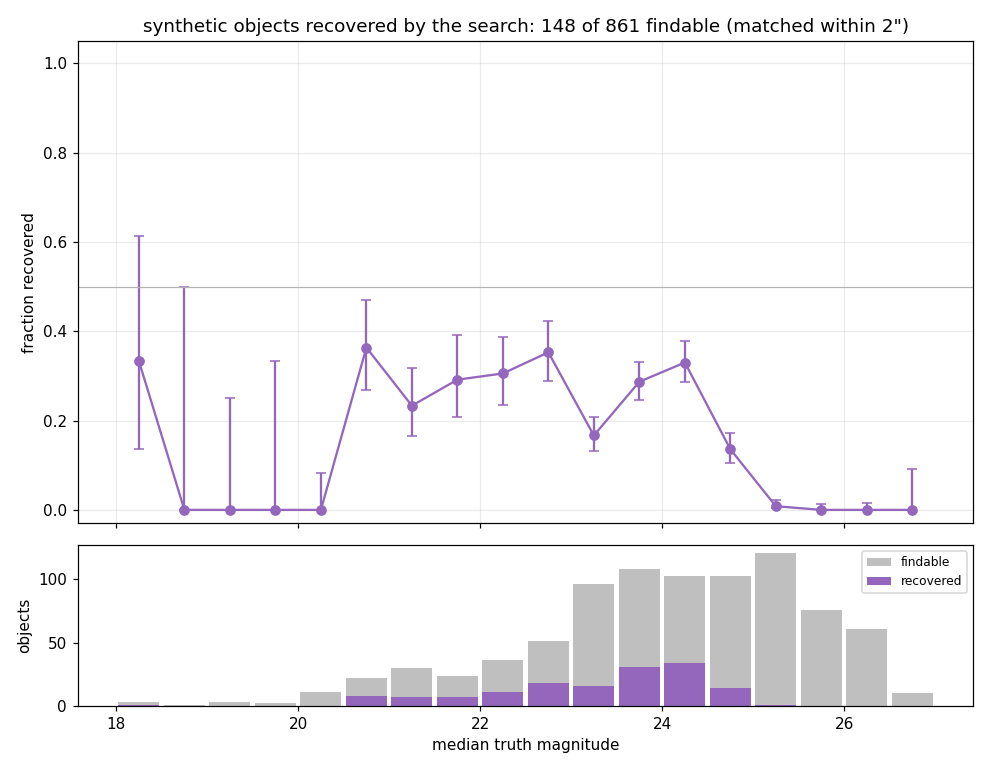
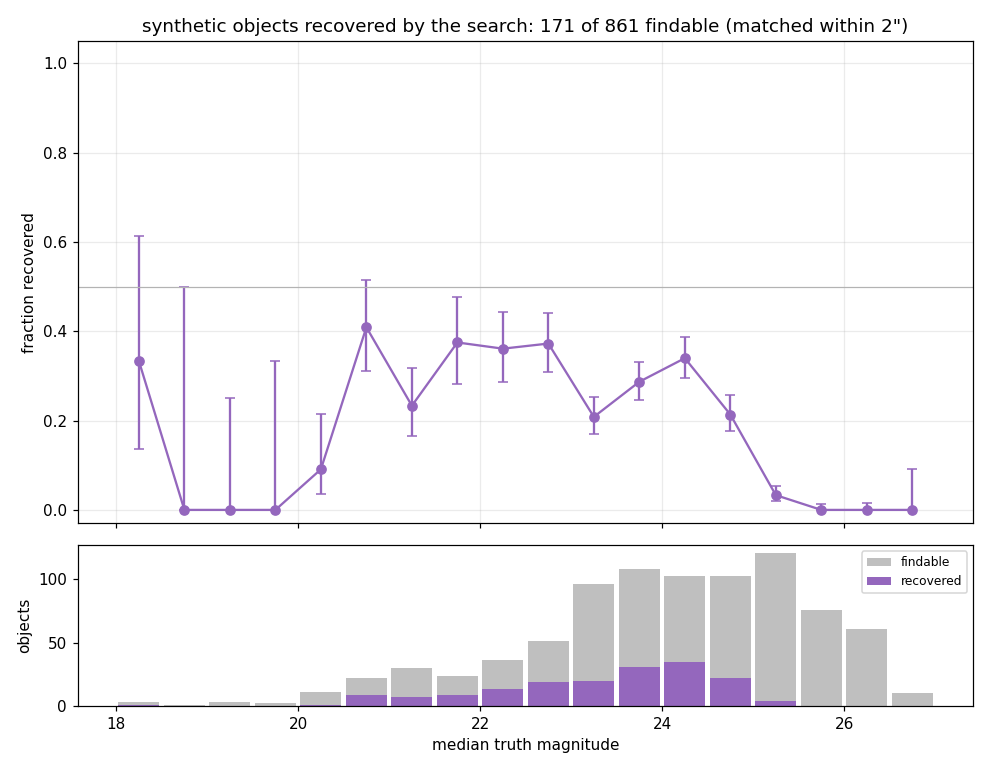
Raise --num-results to 200 for the deeper search and re-run the night (#43)
search_night_array.sh gains $NUM_RESULTS and $FORCE (re-search run_ids that
already have a `search` row, for a parameter change on an already-searched
night); list_night_run_ids.py gains --include-searched to support it.

Re-ran night 20190402's 180 VR searches against a fresh deep_asteroids_snr_3
database with --num-results 200 (same threshold=3, dx=10, CR/INTRP excluded).
Regenerated the night_20190402_snr_3 plots and updated README.md with the new
funnel/completeness numbers.

diff --git a/examples/list_night_run_ids.py b/examples/list_night_run_ids.py
@@ -24,11 +24,11 @@ from deep_asteroids.database.search import band_clause, parse_band
 MIN_EXPOSURES = 2  # search.detect.MIN_EXPOSURES
 
 
-def run_ids_to_search(session, night, band=Ellipsis, min_coverage=0.0):
+def run_ids_to_search(session, night, band=Ellipsis, min_coverage=0.0, include_searched=False):
     rows = session.execute(
         select(SD.id, SD.run_id, SD.n_exposures).where(SD.night == night, band_clause(band))
     ).all()
-    already_searched = set(session.scalars(
+    already_searched = set() if include_searched else set(session.scalars(
         select(Search.run_id).where(Search.run_id.in_([r.run_id for r in rows]))))
 
     run_ids = []
@@ -54,7 +54,12 @@ if __name__ == "__main__":
                         help="a band, or '' / none for the undefined-band (all-band) rows (default VR)")
     parser.add_argument("--min-coverage", type=float, default=0.0,
                         help="fraction of a search's exposures that must have an image (default 0)")
+    parser.add_argument("--include-searched", action="store_true",
+                        help="also list run_ids that already have a `search` row -- for re-running a "
+                             "night with different search parameters (e.g. --force --num-results) "
+                             "rather than resuming a partial array")
     args = parser.parse_args()
     with Session(get_db()) as session:
-        for run_id in run_ids_to_search(session, args.night, parse_band(args.band), args.min_coverage):
+        for run_id in run_ids_to_search(session, args.night, parse_band(args.band), args.min_coverage,
+                                         args.include_searched):
             print(run_id)

diff --git a/README.md b/README.md
@@ -563,12 +563,11 @@ needs salad's Postgres for those).
 `docs/examples/viz/night_20190402_snr_3/`.** Run as a Slurm job array (`examples/search_night_array.sh`, one
 task per run_id -- 180 of the night's 186 VR searches had enough image coverage, done in ~25 minutes instead of
 the hours a sequential run would take) into its own Postgres database, `deep_asteroids_snr_3`, so it doesn't
-overwrite the default-threshold baseline. Every search hit `--num-results`'s default cap of 50 (9,000 = 180 x 50),
-so the 50-per-search ranking, not detection, is now the limit: completeness tops out around 35% (versus ~90-100%
-brighter than magnitude 24 at the default threshold=5), because a flood of SNR 3-5 noise detections crowds real
-objects out of each search's top 50. `sigma_v` still cleanly separates real matches from noise at this threshold
-(see `sigma_v_by_group.png`) -- the next step for a usefully deeper search is raising `--num-results` to match,
-not just lowering `--threshold` alone.
+overwrite the default-threshold baseline. At `--num-results`'s default cap of 50, every search hit the cap
+(9,000 = 180 x 50), so the 50-per-search ranking, not detection, was the limit: completeness topped out around
+35% (versus ~90-100% brighter than magnitude 24 at the default threshold=5), because a flood of SNR 3-5 noise
+detections crowded real objects out of each search's top 50. `sigma_v` still cleanly separates real matches
+from noise at this threshold (see `sigma_v_by_group.png`).
 
 **One real artifact the deeper threshold turned up: a bad column.** ~530 of one tracklet's own "detections"
 sat at the same 3-pixel-wide x, ~58% of them with `CR`/`INTRP` (cosmic-ray-interpolated pixels) in their
@@ -576,18 +575,34 @@ footprint -- neither plane is in the detection engine's default `--exclude-mask-
 reference pipeline's own default). Fixed with two additive changes: `--exclude-mask-planes` is now
 configurable end-to-end (`$EXCLUDE_MASK_PLANES` in both night scripts), and every detection's own
 footprint-level mask union is now carried into the catalog as a `mask` column (propagated through to
-`gathered.extra` for later filtering/auditing, not just suppressed at detection time). Re-running the night
-with `CR,INTRP` added to the exclude list bumped submitted 292->295, synthetic 149->151, known 54->55,
-putative new 663->666, and completeness recovery 146->148 (synthetic) / 264->266 (mpchecker) -- a real if
-modest improvement; the numbers below are the **post-fix** ones.
+`gathered.extra` for later filtering/auditing, not just suppressed at detection time). A per-detection check of
+`result_20190402_snr_3_ccd41_1` (every gathered point's mask, broken out by LSST mask plane) found no further
+mask bits bleeding through once `CR`/`INTRP` were excluded -- the remaining noise there is unmasked, genuine
+pixel noise, not another maskable artifact.
 
-Three individual results of `deep-decam-A0b-ccd41-20190402-VR` (the same CCD as the `result_20190402_ccd41_24`
-example, rendered the same way with `deep-asteroids viz result`) show the saturation problem directly:
-`docs/examples/viz/result_20190402_snr_3_ccd41_1`/`_25`/`_50` are the 1st, 25th (middle) and 50th (last) of its
-50 capped results. The 1st and 25th (`sky.png`) are diffuse scatter with no real track -- noise that outranked
-everything fainter, even after the mask fix above (there's still plenty of other SNR 3-5 noise to take the top
-ranks). The 50th, dead last by the search's own ranking, is a clean, tightly-tracked real source
-(steady ~mag 23.3-23.4 in its `light_curve.png`) that a `--num-results` of 50 barely kept.
+**Second step: raise `--num-results` to 200 (`$NUM_RESULTS`, same `--threshold 3`/`--dx 10`, same 180
+run_ids), to match the flood of noise instead of just excluding more of it.** Re-run with
+`examples/search_night_array.sh FORCE=1 NUM_RESULTS=200` (same fresh `deep_asteroids_snr_3` database, same
+`CR,INTRP`-widened exclude list): submitted 295->337 (293->335 putative real, 99.4%), synthetic 151->180
+(148->169 putative real, 93.9%), known 55->60 (100%), putative new 666->1,986, and completeness recovery
+148->171 of 861 (synthetic) / 266->301 of 1,016 (mpchecker) -- a bigger jump than the mask fix alone, confirming
+the 50-result cap, not detection, was the main limit at this threshold. Completeness is still well under the
+default-threshold baseline (ranking 200 noisy candidates per search is harder than ranking the far cleaner
+threshold=5 set), so a further `--num-results` increase would likely help more, trading off against the larger
+per-search ranking cost.
+
+Three individual results of `deep-decam-A0b-ccd41-20190402-VR` and `deep-decam-A0b-ccd42-20190402-VR` (the same
+CCD41 as the `result_20190402_ccd41_24` example, plus CCD42, rendered the same way with `deep-asteroids viz
+result`) illustrate the ranking limit: `docs/examples/viz/result_20190402_snr_3_ccd{41,42}_1`/`_25`/`_50` are
+each CCD's 1st, 25th (middle) and 50th (last) result **of the original 50-result-capped run** (not re-rendered
+for the `--num-results 200` run above, so the per-result example renders in these folders still reflect the
+pre-#43-step-2 numbers). ccd41's 1st and 25th (`sky.png`) are diffuse scatter with no real track -- noise that
+outranked everything fainter even after the mask fix (there's still plenty of other SNR 3-5 noise to take the
+top ranks); ccd41's 50th, dead last by the search's own ranking, is a clean, tightly-tracked real source
+(steady ~mag 23.3-23.4 in its `light_curve.png`) that a `--num-results` of 50 barely kept. ccd42's three results
+are noise at all three ranks (1st, 25th and 50th), unlike ccd41 -- expected: a result's rank among the top 50
+says nothing about which CCD/field has a recoverable real source at all, only where in *that search's own*
+noise-vs-signal ranking a given result falls.
 
 ## Cutouts and forced photometry
 
